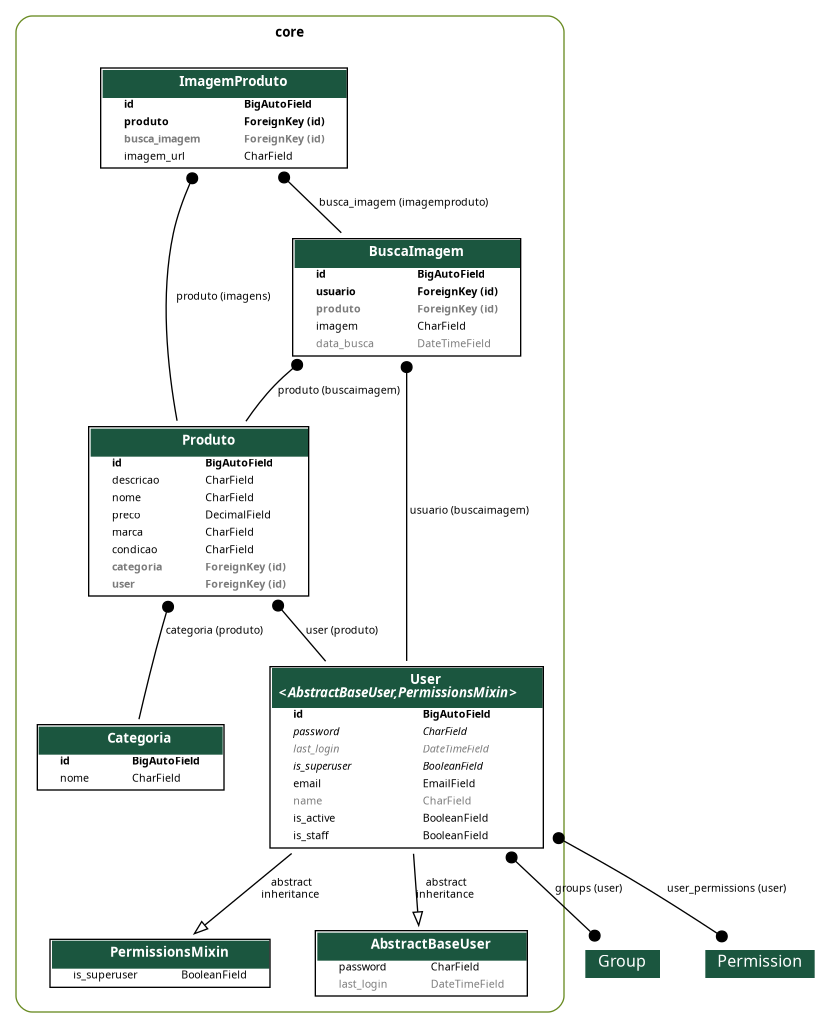
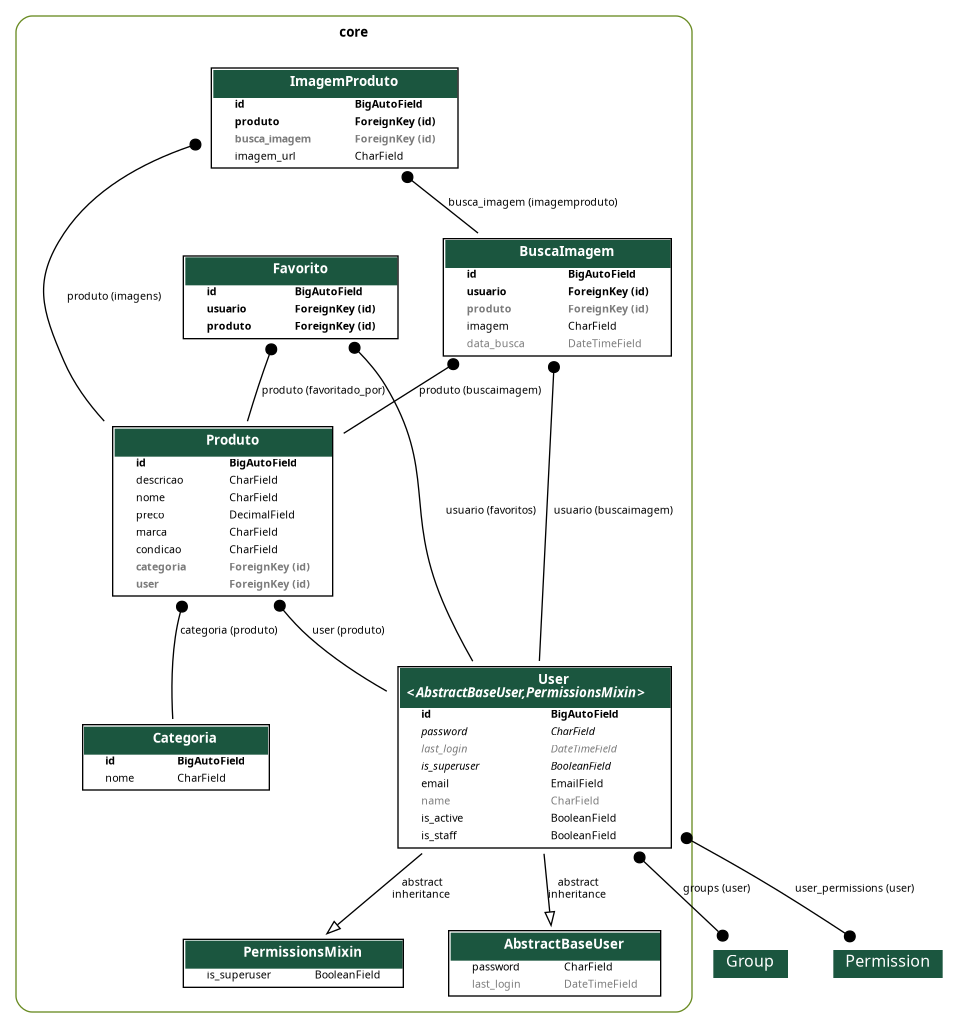
feat: Criação da API Favorito

diff --git a/core/migrations/0011_favorito.py b/core/migrations/0011_favorito.py
@@ -1,0 +1,23 @@
+# Generated by Django 5.2.12 on 2026-04-09 14:15
+
+import django.db.models.deletion
+from django.conf import settings
+from django.db import migrations, models
+
+
+class Migration(migrations.Migration):
+
+    dependencies = [
+        ('core', '0010_imagemproduto'),
+    ]
+
+    operations = [
+        migrations.CreateModel(
+            name='Favorito',
+            fields=[
+                ('id', models.BigAutoField(auto_created=True, primary_key=True, serialize=False, verbose_name='ID')),
+                ('produto', models.ForeignKey(on_delete=django.db.models.deletion.CASCADE, related_name='favoritado_por', to='core.produto')),
+                ('usuario', models.ForeignKey(on_delete=django.db.models.deletion.CASCADE, related_name='favoritos', to=settings.AUTH_USER_MODEL)),
+            ],
+        ),
+    ]

diff --git a/app/urls.py b/app/urls.py
@@ -15,6 +15,7 @@ from rest_framework_simplejwt.views import (
 from core.views import (
     BuscaImagemViewSet,
     CategoriaViewSet,
+    FavoritoViewSet,
     ImagemProdutoViewSet,
     ProdutoViewSet,
     UserRegistrationView,
@@ -28,6 +29,7 @@ router.register(r'produtos', ProdutoViewSet, basename='produtos')
 router.register(r'busca-imagem', BuscaImagemViewSet, basename='busca-imagem')
 router.register(r'imagens-produto', ImagemProdutoViewSet, basename='imagens-produto')
 router.register(r'categorias', CategoriaViewSet, basename='categorias')
+router.register(r'favoritos', FavoritoViewSet, basename='favoritos')
 
 urlpatterns = [
     path('admin/', admin.site.urls),

diff --git a/core/models/favorito.py b/core/models/favorito.py
@@ -1,0 +1,20 @@
+from django.db import models
+
+
+class Favorito(models.Model):
+    usuario = models.ForeignKey(
+        'core.User',
+        on_delete=models.CASCADE,
+        related_name='favoritos'
+    )
+    produto = models.ForeignKey(
+        'core.Produto',
+        on_delete=models.CASCADE,
+        related_name='favoritado_por'
+    )
+
+    class Meta:
+        unique_together = ('usuario', 'produto')
+
+    def __str__(self):
+        return f"{self.usuario} favoritou {self.produto}"

diff --git a/core/migrations/0012_alter_favorito_unique_together.py b/core/migrations/0012_alter_favorito_unique_together.py
@@ -1,0 +1,17 @@
+# Generated by Django 5.2.12 on 2026-04-09 14:15
+
+from django.db import migrations
+
+
+class Migration(migrations.Migration):
+
+    dependencies = [
+        ('core', '0011_favorito'),
+    ]
+
+    operations = [
+        migrations.AlterUniqueTogether(
+            name='favorito',
+            unique_together={('usuario', 'produto')},
+        ),
+    ]

diff --git a/core/views/favorito.py b/core/views/favorito.py
@@ -1,0 +1,9 @@
+from rest_framework.viewsets import ModelViewSet
+
+from core.models import Favorito
+from core.serializers import FavoritoSerializer
+
+
+class FavoritoViewSet(ModelViewSet):
+    queryset = Favorito.objects.all()
+    serializer_class = FavoritoSerializer

diff --git a/core/serializers/__init__.py b/core/serializers/__init__.py
@@ -3,3 +3,4 @@ from .produto import ProdutoSerializer
 from .categoria import CategoriaSerializer
 from .buscaImagem import BuscaImagemSerializer  
 from .imagemProduto import ImagemProdutoSerializer
+from .favorito import FavoritoSerializer

diff --git a/core/views/__init__.py b/core/views/__init__.py
@@ -5,3 +5,4 @@ from .produto import ProdutoViewSet
 from .categoria import CategoriaViewSet
 from .buscaImagem import BuscaImagemViewSet 
 from .imagemProduto import ImagemProdutoViewSet 
+from .favorito import FavoritoViewSet 

diff --git a/core/serializers/favorito.py b/core/serializers/favorito.py
@@ -1,0 +1,9 @@
+from rest_framework.serializers import ModelSerializer
+
+from core.models import Favorito
+
+
+class FavoritoSerializer(ModelSerializer):
+    class Meta:
+        model = Favorito
+        fields = '__all__'

diff --git a/core/admin.py b/core/admin.py
@@ -56,3 +56,4 @@ admin.site.register(models.Produto)
 admin.site.register(models.Categoria)
 admin.site.register(models.BuscaImagem)
 admin.site.register(models.ImagemProduto)
+admin.site.register(models.Favorito)

diff --git a/core/models/__init__.py b/core/models/__init__.py
@@ -5,3 +5,4 @@ from .produto import Produto
 from .categoria import Categoria
 from .buscaImagem import BuscaImagem
 from .imagemProduto import ImagemProduto
+from .favorito import Favorito
